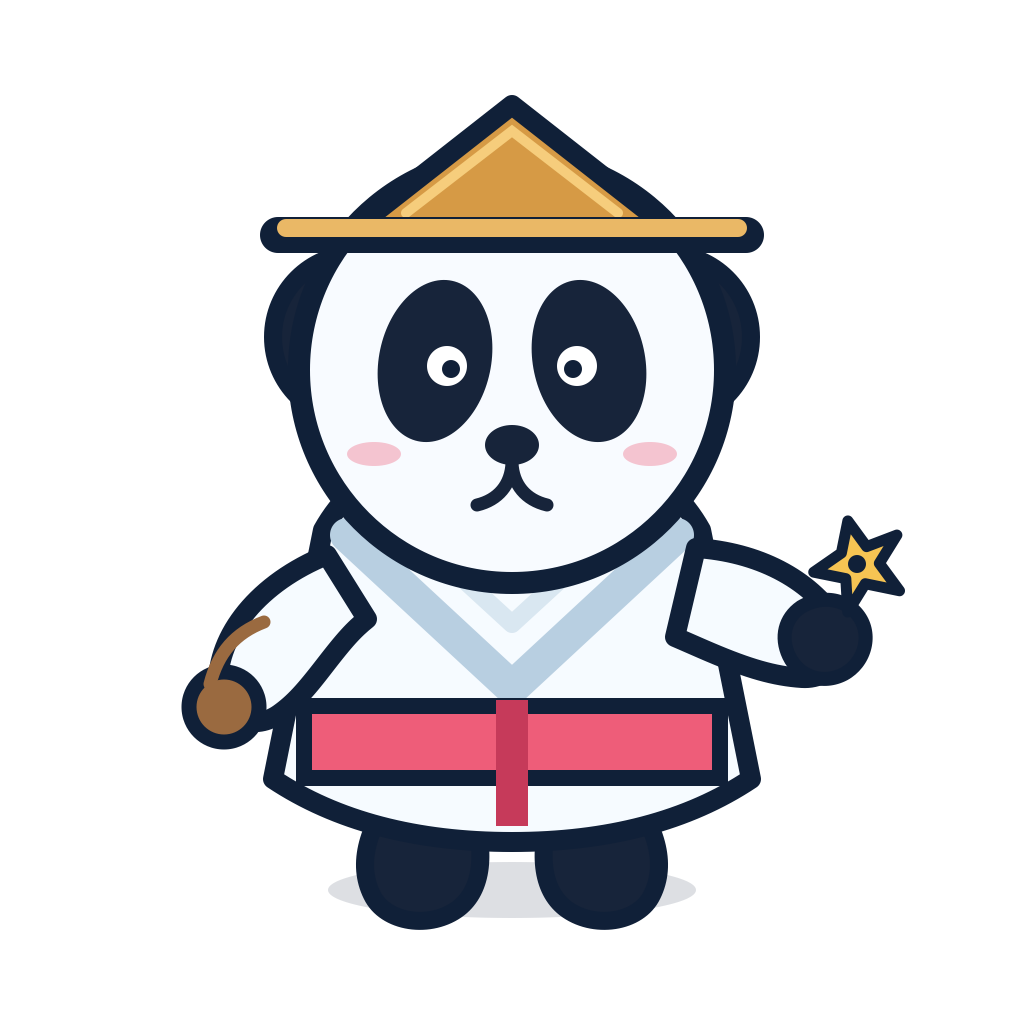
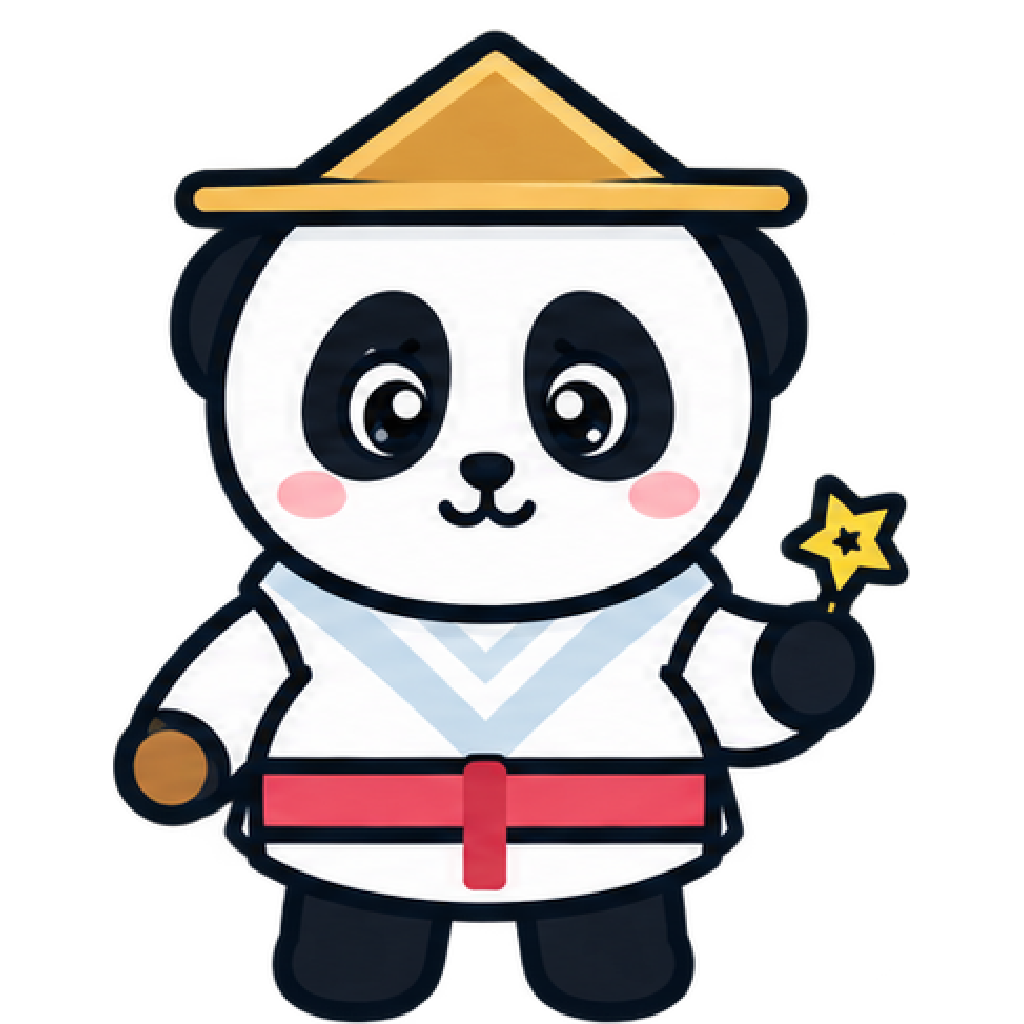
feat(game): refresh panda arcade experience

diff --git a/src/games/phaser/createFallingGame.ts b/src/games/phaser/createFallingGame.ts
@@ -44,11 +44,11 @@ class FallingScene extends Phaser.Scene {
     this.lives=this.difficulty.lives;this.maxLives=this.difficulty.lives;
   }
   preload(){
-    this.load.svg("panda-ranger","/mascot/panda-ranger.svg");
-    this.load.svg("panda-ranger-run","/mascot/panda-ranger-run.svg");
-    this.load.svg("panda-ranger-throw","/mascot/panda-ranger-throw.svg");
-    this.load.svg("panda-ranger-happy","/mascot/panda-ranger-happy.svg");
-    this.load.svg("panda-ranger-hurt","/mascot/panda-ranger-hurt.svg");
+    this.load.image("panda-ranger","/mascot/panda-ranger.png");
+    this.load.image("panda-ranger-run","/mascot/panda-ranger-run.png");
+    this.load.image("panda-ranger-throw","/mascot/panda-ranger-throw.png");
+    this.load.image("panda-ranger-happy","/mascot/panda-ranger-happy.png");
+    this.load.image("panda-ranger-hurt","/mascot/panda-ranger-hurt.png");
   }
   create(){this.world=createArcadeWorld(this,this.difficulty.theme);this.scale.on("resize",this.reflow,this);this.events.once(Phaser.Scenes.Events.SHUTDOWN,()=>{this.spawnGeneration+=1;this.scale.off("resize",this.reflow,this);this.world?.destroy();});this.world.countdown(()=>void this.spawn());}
   update(time:number,delta:number){
@@ -77,11 +77,11 @@ class FallingScene extends Phaser.Scene {
   }
   backspace(){if(this.awaitingPrompt||this.resolving)return;this.typed=this.typed.slice(0,-1);this.emitState();}
   clear(){if(this.awaitingPrompt||this.resolving)return;this.typed="";this.emitState();}
-  private fontSizeFor(prompt:string){const w=this.scale.width;const base=w>=1000?54:w>=680?46:38;if(prompt.length>12)return Math.max(27,base-12);if(prompt.length>7)return Math.max(31,base-7);return base;}
+  private fontSizeFor(prompt:string){const w=this.scale.width;const base=w>=1000?44:w>=680?38:32;if(prompt.length>12)return Math.max(23,base-10);if(prompt.length>7)return Math.max(26,base-6);return base;}
   private maxLabelWidth(){return Math.max(180,Math.min(this.scale.width*.44,480));}
   private paintTarget(tone:TargetTone="neutral"){
     const card=this.targetCard,label=this.targetLabel;if(!card||!label)return;const max=this.maxLabelWidth();label.setWordWrapWidth(max,true);label.setFontSize(this.fontSizeFor(this.active?.prompt??""));
-    const lw=Math.min(label.width,max);this.targetWidth=Math.max(142,lw+48);this.targetHeight=Math.max(64,label.height+26);
+    const lw=Math.min(label.width,max);this.targetWidth=Math.max(128,lw+36);this.targetHeight=Math.max(54,label.height+20);
     const p=tone==="correct"?{fill:0x062a24,border:0x6ee7b7,text:"#ecfdf5",glow:0x34d399}:tone==="wrong"?{fill:0x3b111c,border:0xfda4af,text:"#fff1f2",glow:0xfb7185}:{fill:0x0b172a,border:0x7dd3fc,text:"#f8fbff",glow:0x38bdf8};
     label.setColor(p.text).setStroke("#020617",tone==="neutral"?2:1);card.clear();card.fillStyle(p.glow,tone==="neutral"?.12:.2);card.fillRoundedRect(-this.targetWidth/2-9,-this.targetHeight/2-9,this.targetWidth+18,this.targetHeight+18,24);card.fillStyle(0x020617,.38);card.fillRoundedRect(-this.targetWidth/2+5,-this.targetHeight/2+8,this.targetWidth,this.targetHeight,18);card.fillStyle(p.fill,.96);card.fillRoundedRect(-this.targetWidth/2,-this.targetHeight/2,this.targetWidth,this.targetHeight,18);card.lineStyle(2.5,p.border,.96);card.strokeRoundedRect(-this.targetWidth/2,-this.targetHeight/2,this.targetWidth,this.targetHeight,18);
   }

diff --git a/src/components/GamePoolSelector.tsx b/src/components/GamePoolSelector.tsx
@@ -114,12 +114,12 @@ export function GamePoolSelector(props: Props) {
         <div class="mt-1.5 flex gap-1.5 overflow-x-auto pb-1">
           <For each={meta().books}>{(book) => <button type="button" class={`min-h-9 shrink-0 rounded-full border px-3 text-[0.6875rem] font-extrabold transition ${props.value().bookId === book.id ? tone().active : "border-slate-200 bg-white text-slate-700 hover:border-slate-300"}`} onClick={() => props.onChange({ ...props.value(), kind: "course", bookId: book.id, lessonId: undefined })}>{book.nameVi}</button>}</For>
         </div>
-        <div class="mt-2"><AppSelect label="Bài / Unit" value={props.value().lessonId ?? ""} options={lessonOptions()} onChange={(lessonId) => { const nextLessonId = lessonId || undefined; if (nextLessonId === props.value().lessonId) return; props.onChange({ ...props.value(), lessonId: nextLessonId }); }}/></div>
+        <div class="mt-2"><AppSelect label="Bài / Unit" value={props.value().lessonId ?? ""} options={lessonOptions()} onChange={(lessonId) => { const nextLessonId = lessonId || undefined; if (nextLessonId === props.value().lessonId) return; props.onChange({ ...props.value(), lessonId: nextLessonId, courseMode: "all" }); }}/></div>
 
         <div class="mt-2 grid gap-1.5 sm:grid-cols-3">
           <button type="button" class={`rounded-lg border px-2.5 py-2 text-left text-[0.6875rem] font-extrabold ${props.value().courseMode !== "learned" && props.value().courseMode !== "all" ? `${tone().active} ring-2` : "border-slate-200 bg-white text-slate-700"}`} onClick={() => props.onChange({ ...props.value(), courseMode: "smart" })}>Đến hạn <span class="ml-1 text-emerald-700">SRS</span></button>
           <button type="button" class={`rounded-lg border px-2.5 py-2 text-left text-[0.6875rem] font-extrabold ${props.value().courseMode === "learned" ? `${tone().active} ring-2` : "border-slate-200 bg-white text-slate-700"}`} onClick={() => props.onChange({ ...props.value(), courseMode: "learned" })}>Random đã học</button>
-          <button type="button" class={`rounded-lg border px-2.5 py-2 text-left text-[0.6875rem] font-extrabold ${props.value().courseMode === "all" ? `${tone().active} ring-2` : "border-slate-200 bg-white text-slate-700"}`} onClick={() => props.onChange({ ...props.value(), courseMode: "all" })}>Khám phá toàn bài</button>
+          <button type="button" class={`rounded-lg border px-2.5 py-2 text-left text-[0.6875rem] font-extrabold ${props.value().courseMode === "all" ? `${tone().active} ring-2` : "border-slate-200 bg-white text-slate-700"}`} onClick={() => props.onChange({ ...props.value(), courseMode: "all" })}>Luyện toàn bài</button>
         </div>
       </div>
     </Show>

diff --git a/src/routes/Games.tsx b/src/routes/Games.tsx
@@ -60,7 +60,7 @@ export default function Games() {
           <div class="absolute inset-x-0 bottom-0 h-20 bg-slate-800"/>
           <div class="relative z-10 flex h-full items-end justify-between gap-5">
             <div><div class="text-xs font-black uppercase tracking-[0.12em] text-blue-200">Featured</div><div class="mt-2 text-2xl font-black">Panda Dojo</div><p class="mt-1 max-w-sm text-xs leading-5 text-slate-300">Gõ đúng pinyin, gấu trúc phóng phi tiêu hạ từ trước khi chạm đất.</p></div>
-            <img src="/mascot/panda-ranger.svg" alt="Panda Dojo" class="h-28 w-28 shrink-0 object-contain"/>
+            <img src="/mascot/panda-ranger.png" alt="Panda Dojo" class="h-28 w-28 shrink-0 object-contain"/>
           </div>
         </div>
       </div>
@@ -75,7 +75,7 @@ export default function Games() {
       <div class="flex items-end justify-between gap-3"><div><div class="text-xs font-black uppercase tracking-[0.12em] text-blue-700">Arcade</div><h2 class="mt-1 text-xl font-black text-slate-900">Game có nhịp, màn chơi và game feel</h2></div><span class="hidden text-xs text-slate-500 sm:block">Khởi động → Phản xạ → Bão chữ → Cao thủ</span></div>
       <div class="mt-3 grid gap-3 lg:grid-cols-3">
         <A href="/games/falling" class="group relative overflow-hidden rounded-3xl border border-slate-800 bg-slate-900 p-5 text-white no-underline shadow-sm transition hover:-translate-y-0.5 hover:shadow-lg lg:col-span-2">
-          <img src="/mascot/panda-ranger.svg" alt="" aria-hidden="true" class="absolute -bottom-5 right-3 h-36 w-36 object-contain opacity-95 sm:right-6 sm:h-40 sm:w-40"/>
+          <img src="/mascot/panda-ranger.png" alt="" aria-hidden="true" class="absolute -bottom-5 right-3 h-36 w-36 object-contain opacity-95 sm:right-6 sm:h-40 sm:w-40"/>
           <div class="relative z-10 max-w-xl"><div class="text-xs font-black uppercase tracking-[0.12em] text-blue-200">Flagship · Productive retrieval</div><h3 class="mt-3 text-2xl font-black">Falling Recall</h3><p class="mt-2 text-sm leading-6 text-slate-300">Hán / Audio → tự gõ pinyin. Đây là game production chính: không có đáp án 4 lựa chọn để dựa vào.</p><div class="mt-5 flex flex-wrap gap-2"><span class="rounded-full bg-white/10 px-2.5 py-1 text-xs font-bold">4 màn</span><span class="rounded-full bg-white/10 px-2.5 py-1 text-xs font-bold">2 mode</span><span class="rounded-full bg-white/10 px-2.5 py-1 text-xs font-bold">Typing</span></div><div class="mt-6 text-sm font-black text-blue-200">Vào Panda Dojo →</div></div>
         </A>
         <div class="grid gap-3">

diff --git a/src/routes/games/Shooter.tsx b/src/routes/games/Shooter.tsx
@@ -306,7 +306,7 @@ export default function Shooter() {
           <section class="mx-auto mt-2 w-full max-w-5xl overflow-hidden rounded-3xl border border-slate-200 bg-white shadow-sm">
             <div class="grid lg:grid-cols-[1fr_0.95fr]">
               <div class="border-b border-slate-200 p-4 sm:p-5 lg:border-b-0 lg:border-r">
-                <div class="flex items-start gap-4"><img src="/mascot/panda-ranger.svg" alt="Panda Range" class="size-16 shrink-0 object-contain sm:size-18"/><div><div class="text-xs font-black uppercase tracking-[0.12em] text-blue-700">Panda Range</div><h2 class="mt-1 text-2xl font-black text-slate-900 sm:text-3xl">{title()}</h2><p class="mt-2 text-sm leading-6 text-slate-500">{description()} Chọn đúng để gấu trúc phóng phi tiêu phá target; sai thì target được đưa lại vào queue.</p></div></div>
+                <div class="flex items-start gap-4"><img src="/mascot/panda-ranger.png" alt="Panda Range" class="size-16 shrink-0 object-contain sm:size-18"/><div><div class="text-xs font-black uppercase tracking-[0.12em] text-blue-700">Panda Range</div><h2 class="mt-1 text-2xl font-black text-slate-900 sm:text-3xl">{title()}</h2><p class="mt-2 text-sm leading-6 text-slate-500">{description()} Chọn đúng để gấu trúc phóng phi tiêu phá target; sai thì target được đưa lại vào queue.</p></div></div>
                 <div class="mt-4"><GamePoolSelector value={poolSelection} onChange={setPoolSelection} accent="blue" /></div>
                 <div class="mt-3 flex flex-wrap gap-x-4 gap-y-1 text-[0.6875rem] font-bold text-slate-500"><span>4 mục tiêu gần nghĩa</span><span>Desktop: 1–4</span><span>iPad/mobile: chạm trực tiếp</span></div>
               </div>
@@ -316,7 +316,7 @@ export default function Shooter() {
         </Show>
 
         <Show when={phase() === "playing"}>
-          <section class="mx-auto flex w-full max-w-[72rem] flex-col gap-2.5">
+          <section class="mx-auto flex w-full max-w-none flex-col gap-2.5">
             <div class="relative h-[clamp(20rem,44dvh,30rem)] overflow-hidden rounded-[1.25rem] border border-slate-900/10 bg-slate-950 shadow-[0_1rem_2.5rem_rgba(15,23,42,0.18)] touch-capable:h-[clamp(23rem,51dvh,34rem)] fine-pointer:h-[clamp(24rem,53dvh,35rem)] landscape:touch-capable:h-[clamp(18rem,56dvh,27rem)]">
               <div class="h-full w-full overflow-hidden [&>canvas]:block [&>canvas]:h-full [&>canvas]:w-full [&>canvas]:touch-none" ref={mount}/>
               <div class="pointer-events-none absolute inset-x-0 top-0 z-10 p-2.5 sm:p-3">

diff --git a/src/routes/games/Falling.tsx b/src/routes/games/Falling.tsx
@@ -332,7 +332,7 @@ export default function Falling() {
               <div class="grid lg:grid-cols-[1.05fr_0.95fr]">
                 <div class="border-b border-slate-200 p-4 sm:p-5 lg:border-b-0 lg:border-r">
                   <div class="flex items-start gap-4">
-                    <img src="/mascot/panda-ranger.svg" alt="Panda Dojo" class="size-12 shrink-0 object-contain sm:size-14"/>
+                    <img src="/mascot/panda-ranger.png" alt="Panda Dojo" class="size-12 shrink-0 object-contain sm:size-14"/>
                     <div><div class="text-xs font-extrabold uppercase tracking-[0.12em] text-blue-700">Panda Dojo</div><h2 class="mt-1 text-xl font-black tracking-tight text-slate-900 sm:text-2xl">Chọn trận luyện</h2><p class="mt-1.5 max-w-xl text-xs leading-5 text-slate-500">Gõ đúng pinyin để gấu phóng phi tiêu vào chữ; đáp án đúng được đọc lại để củng cố âm. Combo càng dài, vật phẩm càng sớm xuất hiện.</p></div>
                   </div>
 
@@ -363,7 +363,7 @@ export default function Falling() {
           </Show>
 
           <Show when={phase() === "playing"}>
-            <section class="mx-auto flex w-full max-w-[72rem] flex-col gap-2.5">
+            <section class="mx-auto flex w-full max-w-none flex-col gap-2.5">
               <div class="relative h-[clamp(19rem,43dvh,29rem)] overflow-hidden rounded-[1.25rem] border border-slate-900/10 bg-slate-950 shadow-[0_1rem_2.5rem_rgba(15,23,42,0.18)] touch-capable:h-[clamp(23rem,50dvh,33rem)] fine-pointer:h-[clamp(24rem,52dvh,34rem)] landscape:touch-capable:h-[clamp(18rem,55dvh,26rem)]">
                 <div class="h-full w-full overflow-hidden [&>canvas]:block [&>canvas]:h-full [&>canvas]:w-full [&>canvas]:touch-none" ref={mount}/>
 

diff --git a/src/components/GameFrame.tsx b/src/components/GameFrame.tsx
@@ -34,10 +34,10 @@ export function GameFrame(props: GameFrameProps) {
   });
 
   return (
-    <div class={`game-page mx-auto flex min-h-dvh w-full flex-col gap-4 px-3 pb-[calc(1rem_+_env(safe-area-inset-bottom))] sm:px-4 lg:px-6 ${props.compact ? "max-w-5xl" : "max-w-[72rem]"}`}>
+    <div class={`game-page mx-auto flex min-h-dvh w-full flex-col gap-4 px-3 pb-[calc(1rem_+_env(safe-area-inset-bottom))] sm:px-4 lg:px-6 ${props.compact ? "max-w-5xl" : "max-w-none"}`}>
       <header class="sticky top-0 z-30 grid min-h-14 grid-cols-[2.75rem_minmax(0,1fr)_2.75rem] items-center gap-2 border-b border-slate-200/80 bg-[#f7f7f5]/95 pb-2 pt-[calc(0.5rem_+_env(safe-area-inset-top))] backdrop-blur-xl sm:grid-cols-[auto_minmax(0,1fr)_auto] sm:gap-3">
         <A href="/games" class="inline-flex min-h-11 min-w-11 items-center justify-center gap-2 rounded-xl border border-slate-200 bg-white px-2.5 text-sm font-bold text-slate-800 no-underline shadow-sm transition hover:border-slate-300 hover:shadow sm:px-3" aria-label="Quay lại danh sách game">
-          <ArrowLeft size={18} strokeWidth={2.4}/><span class="hidden sm:inline">Game</span><kbd class={`${kbdClass} hidden lg:inline-flex`}>Esc</kbd>
+          <ArrowLeft size={18} strokeWidth={2.4}/><span class="hidden sm:inline">Game</span>
         </A>
         <div class="min-w-0 text-center sm:text-left">
           <h1 class="truncate text-base font-extrabold tracking-[-0.02em] text-slate-900 sm:text-lg">{props.title}</h1>

diff --git a/src/games/phaser/arcadeWorld.ts b/src/games/phaser/arcadeWorld.ts
@@ -88,8 +88,8 @@ export function createArcadeWorld(scene: Phaser.Scene, themeId: ArcadeThemeId, c
       foreground.fillStyle(theme.accent,.9);foreground.fillCircle(baseX+lean,floor-45,4);foreground.fillCircle(baseX+lean+(index%2?6:-5),floor-38,3);
     });
 
-    const responsiveScale=compactHero?(w<560?w/3600:Math.min(w/2400,h/1350)):(w<560?w/3100:Math.min(w/1800,h/1100));
-    const heroScale=compactHero?Phaser.Math.Clamp(responsiveScale,.075,.15):Phaser.Math.Clamp(responsiveScale,.10,.19);
+    const responsiveScale=compactHero?(w<560?w/4700:Math.min(w/3400,h/1900)):(w<560?w/4300:Math.min(w/2800,h/1700));
+    const heroScale=compactHero?Phaser.Math.Clamp(responsiveScale,.055,.095):Phaser.Math.Clamp(responsiveScale,.07,.11);
     const heroShadowScale=compactHero?Phaser.Math.Clamp(heroScale*1.45,.24,.46):Phaser.Math.Clamp(heroScale*1.75,.36,.62);
     hero.setScale(heroScale);
     hero.setPosition(w*heroXRatio,floor+(compactHero?15:8));

diff --git a/src/games/phaser/createShooterGame.ts b/src/games/phaser/createShooterGame.ts
@@ -46,10 +46,10 @@ class ShooterScene extends Phaser.Scene {
     this.lives=this.difficulty.lives;
   }
   preload(){
-    this.load.svg("panda-ranger","/mascot/panda-ranger.svg");
-    this.load.svg("panda-ranger-throw","/mascot/panda-ranger-throw.svg");
-    this.load.svg("panda-ranger-happy","/mascot/panda-ranger-happy.svg");
-    this.load.svg("panda-ranger-hurt","/mascot/panda-ranger-hurt.svg");
+    this.load.image("panda-ranger","/mascot/panda-ranger.png");
+    this.load.image("panda-ranger-throw","/mascot/panda-ranger-throw.png");
+    this.load.image("panda-ranger-happy","/mascot/panda-ranger-happy.png");
+    this.load.image("panda-ranger-hurt","/mascot/panda-ranger-hurt.png");
   }
   create(){
     this.world=createArcadeWorld(this,this.difficulty.theme,true);
